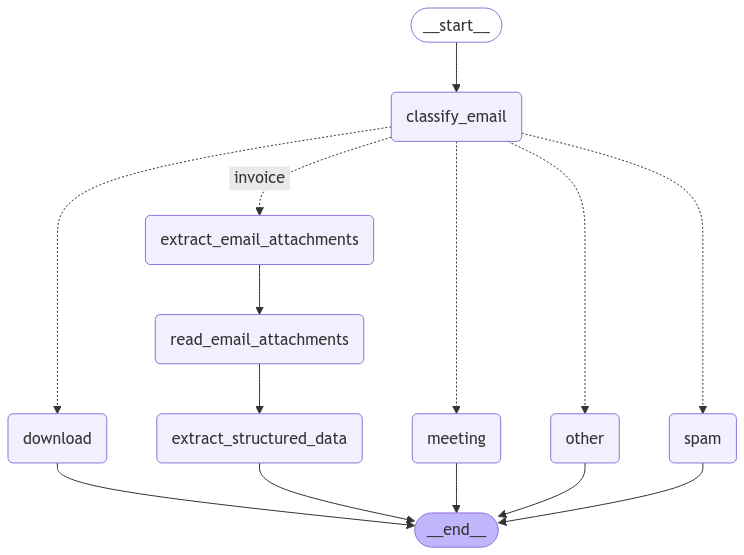
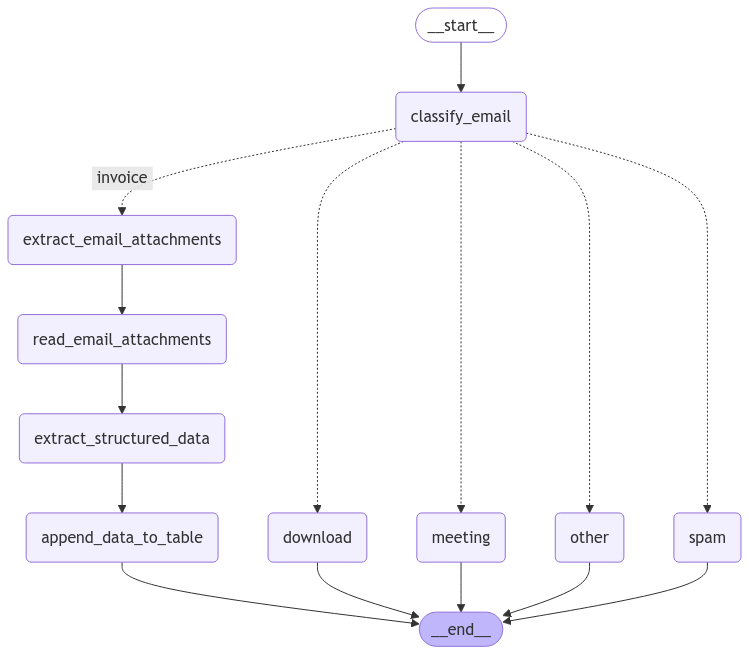
insert row

Changed region(s): [[0.0, 0.245, 1.0, 1.0], [0.4637, 0.0, 0.711, 0.2757], [0.7419, 0.245, 0.7728, 0.2757]]

diff --git a/langgraph_graph/setup_langgraph_graph.py b/langgraph_graph/setup_langgraph_graph.py
@@ -1,5 +1,6 @@
 from langgraph.graph import START, END, StateGraph
 from models.state import State
+from nodes.append_data_to_table import append_data_to_table
 from nodes.extract_structured_data import extract_structured_data
 from nodes.read_email_attachments import read_email_attachments
 from nodes.download import download
@@ -35,6 +36,7 @@ def build_graph() -> StateGraph:
     router_builder.add_node("extract_email_attachments", extract_email_attachments)
     router_builder.add_node("read_email_attachments", read_email_attachments)
     router_builder.add_node("extract_structured_data", extract_structured_data)
+    router_builder.add_node("append_data_to_table", append_data_to_table)
     router_builder.add_node("spam", spam)
     router_builder.add_node("meeting", meeting)
     router_builder.add_node("download", download)
@@ -55,7 +57,8 @@ def build_graph() -> StateGraph:
     )
     router_builder.add_edge("extract_email_attachments", "read_email_attachments")
     router_builder.add_edge("read_email_attachments", "extract_structured_data")
-    router_builder.add_edge("extract_structured_data", END)
+    router_builder.add_edge("extract_structured_data", "append_data_to_table")
+    router_builder.add_edge("append_data_to_table", END)
     router_builder.add_edge("spam", END)
     router_builder.add_edge("meeting", END)
     router_builder.add_edge("download", END)

diff --git a/nodes/extract_structured_data.py b/nodes/extract_structured_data.py
@@ -24,16 +24,9 @@ def extract_structured_data(state: State) -> dict:
                     "vendor_name": {"type": "string"},
                     "invoice_date": {"type": "string"},
                     "products": {
-                        "type": "array",
-                        "items": {
-                            "type": "object",
-                            "properties": {
-                                "product": {"type": "string"},
-                                "price": {"type": "number"},
-                            },
-                            "total_price": {"type": "number"},
-                        },
+                        "type": "string",
                     },
+                    "total_price": {"type": "number"},
                 },
             },
         },
@@ -53,6 +46,8 @@ def extract_structured_data(state: State) -> dict:
         result = openai_client.call_openai(
             messages, model="gpt-4o-mini", response_format=response_format
         )
+
+        # result = '{\n  "vendor_name": "HOCH Wasserkraft & Hydraulik GmbH",\n  "invoice_date": "31.01.2025",\n  "products": "VW-PKW BV537V Golf Comfortline 1,6 TDI 5-Gang",\n  "total_price": 16200.01\n}'
 
         try:
             json_result = json.loads(result)

diff --git a/api/google_sheets_api.py b/api/google_sheets_api.py
@@ -1,0 +1,32 @@
+from googleapiclient.discovery import build
+from google.oauth2 import service_account
+
+
+class GoogleSheetsAPI:
+    def __init__(self):
+        # Use the credentials directly from the environment variable
+        self.credentials = service_account.Credentials.from_service_account_file(
+            "keys/google-credentials.json",
+            scopes=["https://www.googleapis.com/auth/spreadsheets"],
+        )
+
+        # Build the Sheets API client
+        self.service = build("sheets", "v4", credentials=self.credentials)
+
+    def insert_row(self, spreadsheet_id, range_name, row_data):
+        values = [row_data]
+        body = {"values": values}
+
+        # Append the row to the sheet
+        request = (
+            self.service.spreadsheets()
+            .values()
+            .append(
+                spreadsheetId=spreadsheet_id,
+                range=range_name,
+                valueInputOption="RAW",
+                body=body,
+            )
+        )
+        response = request.execute()
+        print(f"Row inserted: {response}")

diff --git a/nodes/append_data_to_table.py b/nodes/append_data_to_table.py
@@ -1,0 +1,29 @@
+from api.google_sheets_api import GoogleSheetsAPI
+from models.state import State
+import os
+from dotenv import load_dotenv
+
+load_dotenv()
+
+
+def append_data_to_table(state: State):
+
+    googleSheetsClient = GoogleSheetsAPI()
+
+    # Google Sheet ID and range (e.g., "Sheet1!A1" to start at the top left)
+    spreadsheet_id = os.getenv("EXPENDITURE_SPREADSHEET_ID")
+    range_name = "Tabellenblatt1!A1"  # Replace with the range where you want to insert
+
+    for attachment in state["attachments"]:
+
+        json_data = attachment["json_data"]
+
+        values = [
+            state["email"]["receivedDateTime"],
+            json_data["invoice_date"],
+            json_data["products"],
+            json_data["vendor_name"],
+            json_data["total_price"],
+        ]
+
+        googleSheetsClient.insert_row(spreadsheet_id, range_name, values)

diff --git a/api/openai_api.py b/api/openai_api.py
@@ -30,6 +30,7 @@ class OpenAIClient:
                 model=model, input=messages, response_format=response_format
             )
             return completion.content
+
         except Exception as e:
             print(f"Fehler bei der API-Anfrage: {e}")
             return None

diff --git a/api/google_vision_ai_api.py b/api/google_vision_ai_api.py
@@ -1,5 +1,4 @@
 from google.cloud import vision
-from google.cloud.vision_v1 import types
 
 
 def detect_text_from_image(content):

diff --git a/README.md b/README.md
@@ -30,3 +30,8 @@ This repository provides a workflow for automatically categorizing and processin
 3. Create a new service account or use an existing one.
 4. Assign the necessary roles (e.g., Cloud Vision API User).
 5. Generate a JSON key file, download it, and place it in this project as `keys/google-credentials.json`.
+
+
+### Google Docs Setup
+1. Create the table for expenditure
+2. Share wit with your google service account
